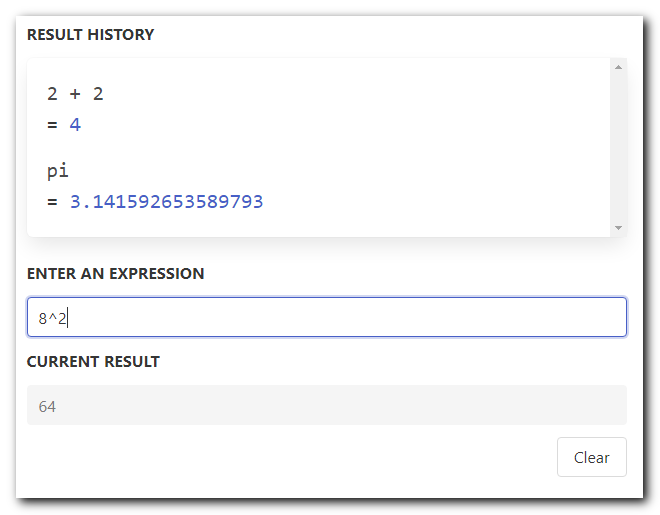
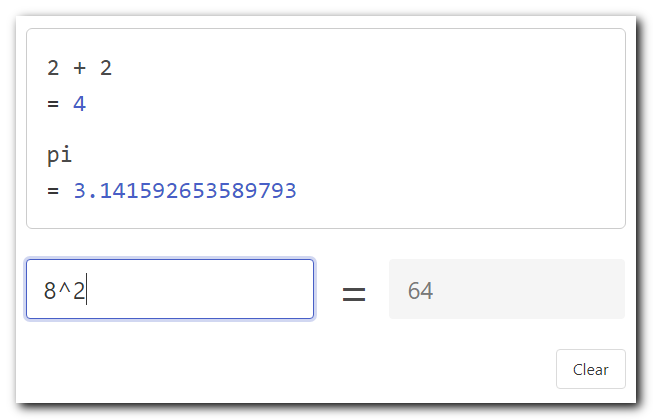
Update screenshot to reflect new layout
Minor tweaks to README usage

diff --git a/README.md b/README.md
@@ -1,20 +1,20 @@
 # Text-based calculator with history
 
-![](text-calculator-thumbnail.png)
-
 A simple, text-based calculator to do quick arithmetic. Aims to be a simplified, online version of [SpeedCrunch](https://speedcrunch.org/) or PowerToys PowerCalc.
+
+Try it out at [calc.danhersam.com](https://calc.danhersam.com/)
+
+![](text-calculator-thumbnail.png)
 
 ## Usage
 
-* Type an expression and see the results immediately.
+* Enter an expression and see the results as you type.
 * In the expression field:
-    * Type Enter to store the expression and result in the results history.
+    * Hit Enter to store the expression and result to the history.
     * Type the up arrow to show the most recent expression.
     * Type the down arrow or Esc to clear the current expression.
     * Type an operator to use the previous answer (e.g. +2 will add 2 to the previous answer).
     * Type 'c' or hit the Clear button to clear all of the fields.
-
-[Try it out here](https://calc.danhersam.com/).
 
 ## Credits
 
